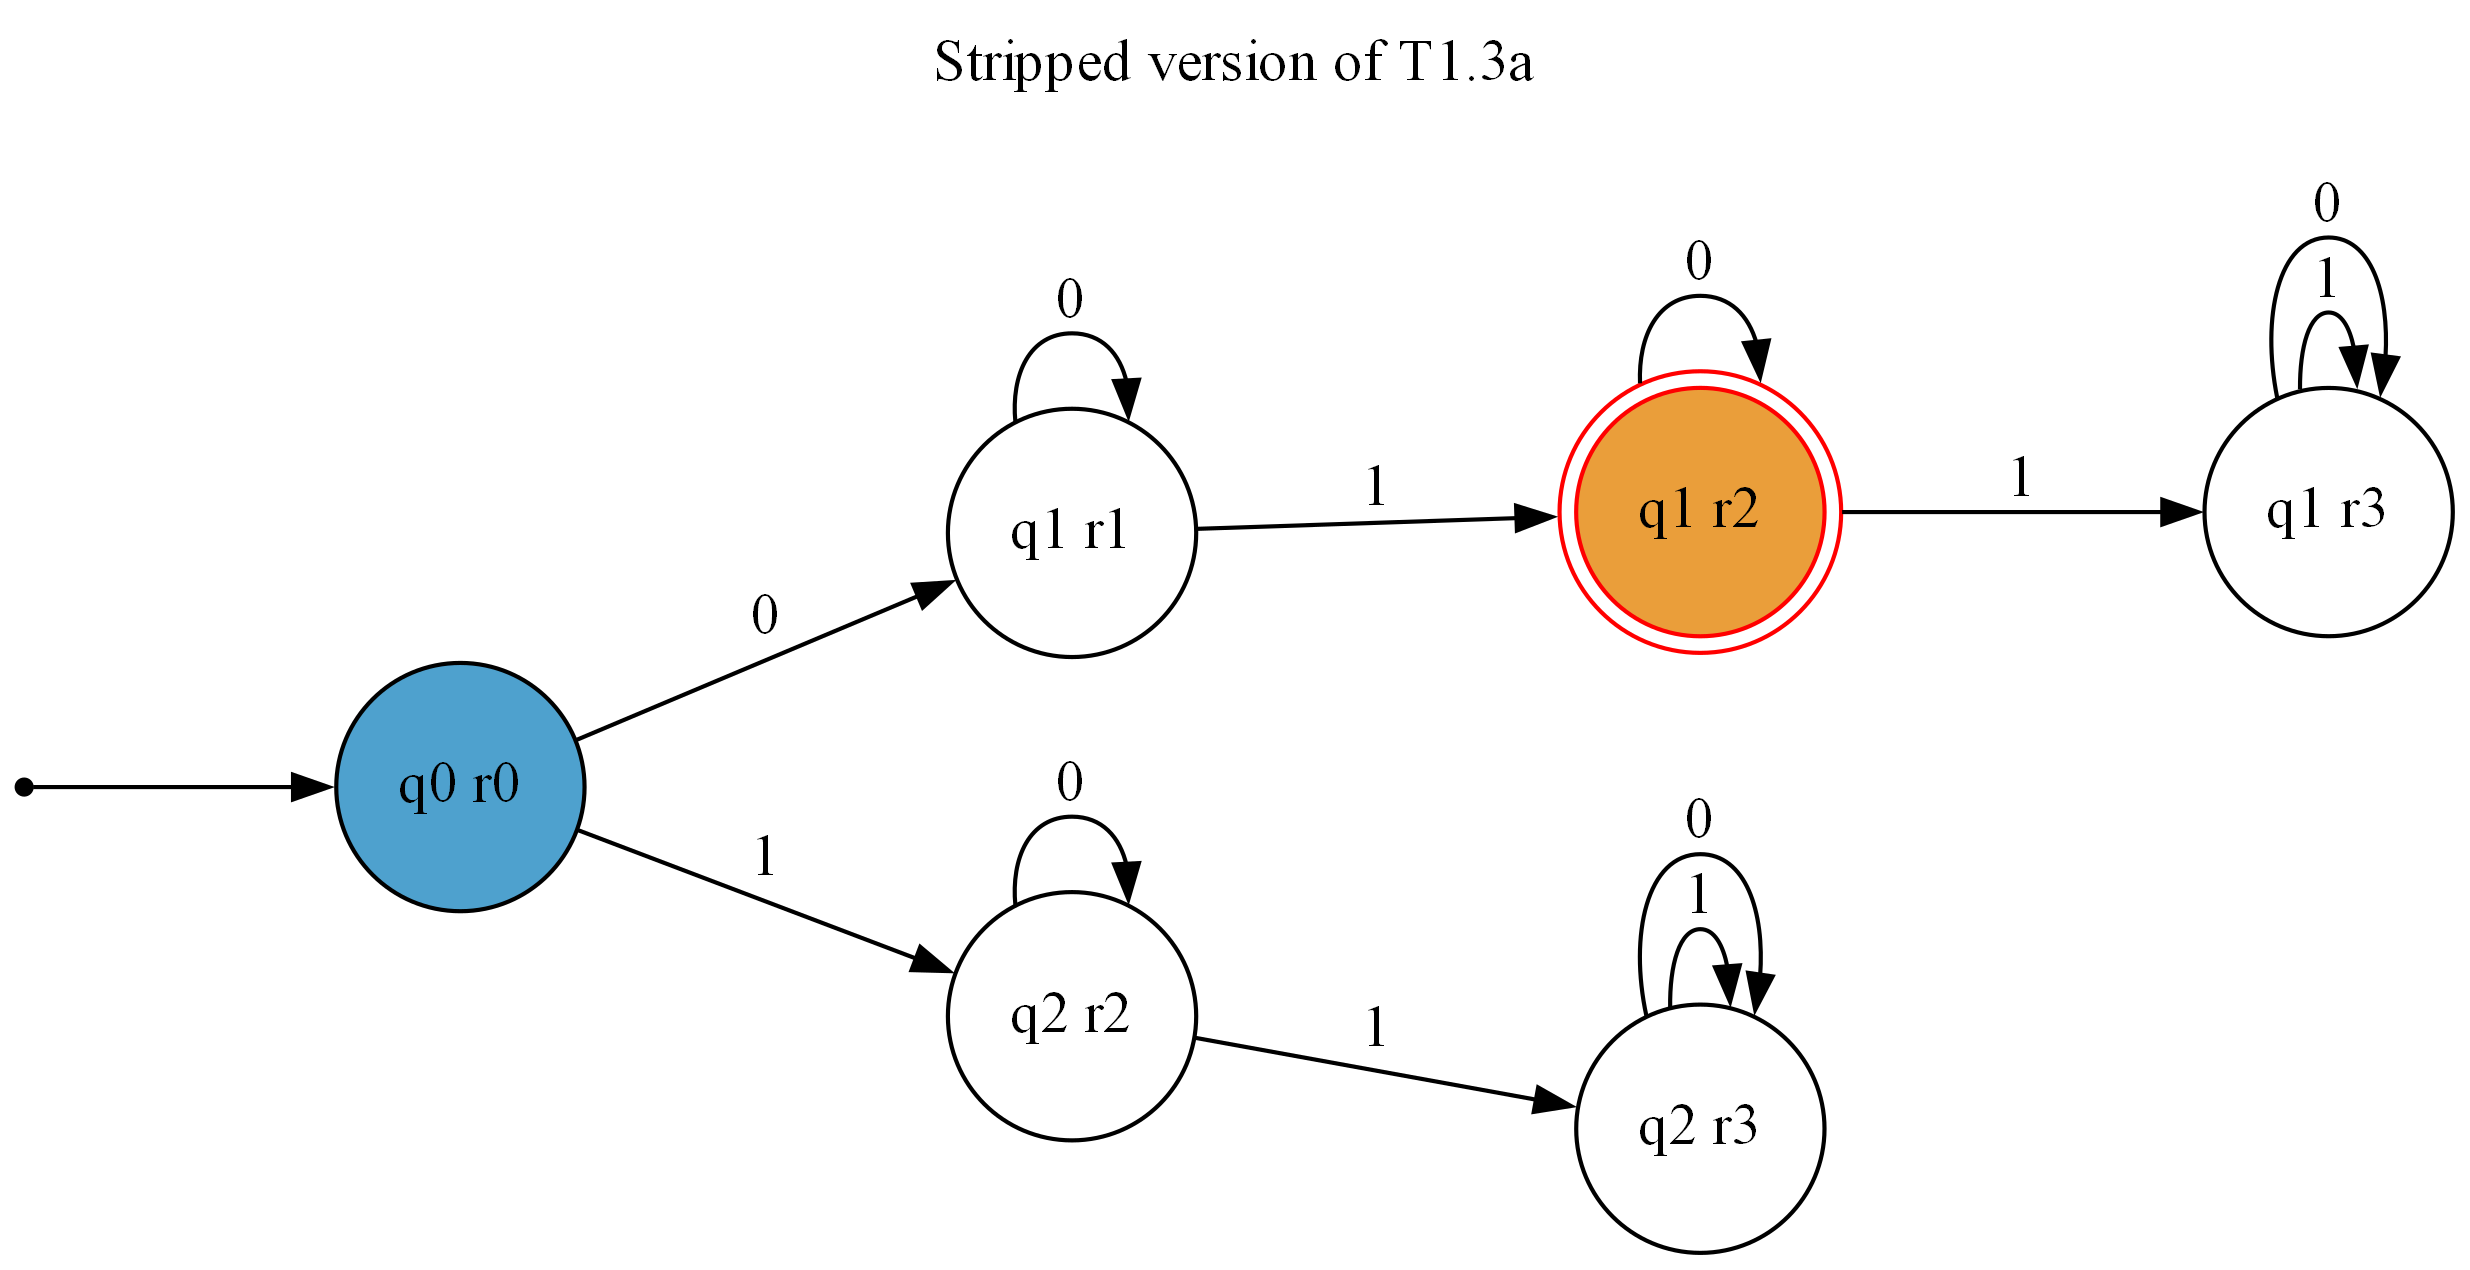
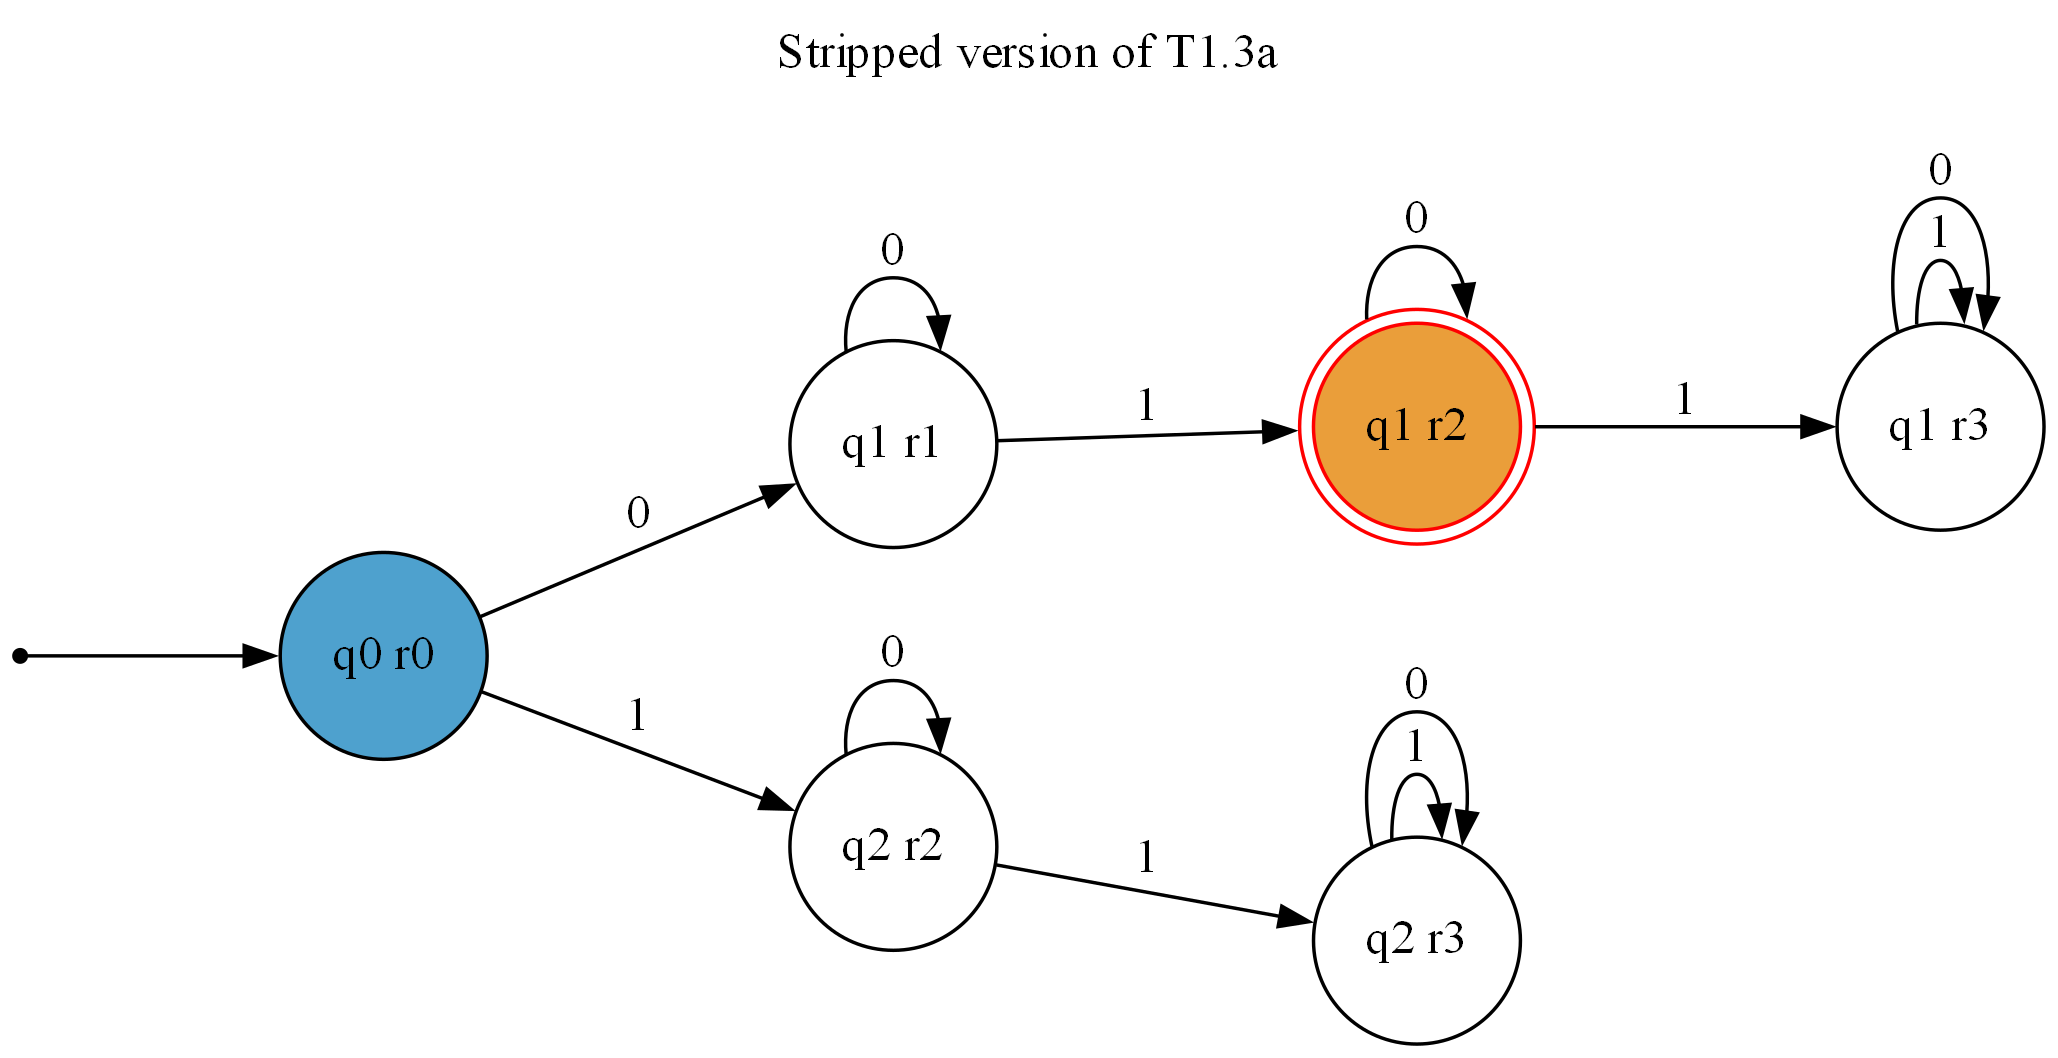
changed resolution of graphs

diff --git a/dfa.py b/dfa.py
@@ -230,7 +230,7 @@ class DFA():
       cleanup: bool = True,
       horizontal: bool = True,
       reverse_orientation: bool = False,
-      fig_size: tuple = (1024, 1024),
+      fig_size: tuple = (256, 256),
       font_size: float = 14.0,
       arrow_size: float = 0.85,
       state_seperation: float = 1.0,
@@ -267,7 +267,7 @@ class DFA():
       graph = Digraph(strict=False)
       graph.attr(
           size=fig_size,
-          dpi="300",
+          dpi="250",
           ranksep=state_seperation,
       )
       if title is not None:
